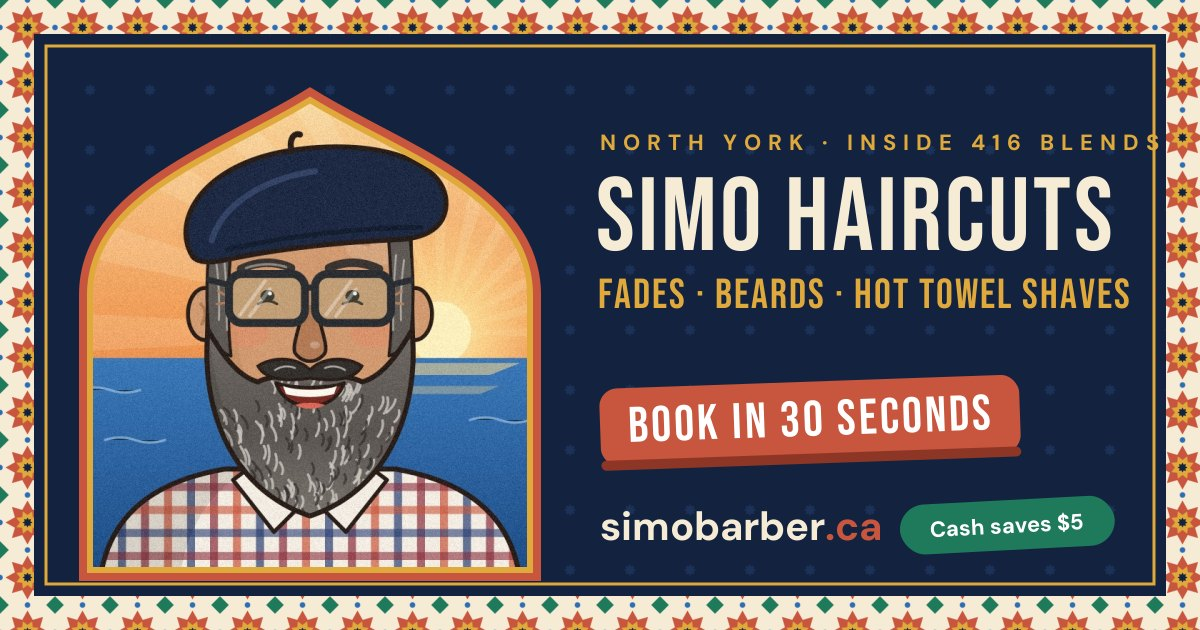
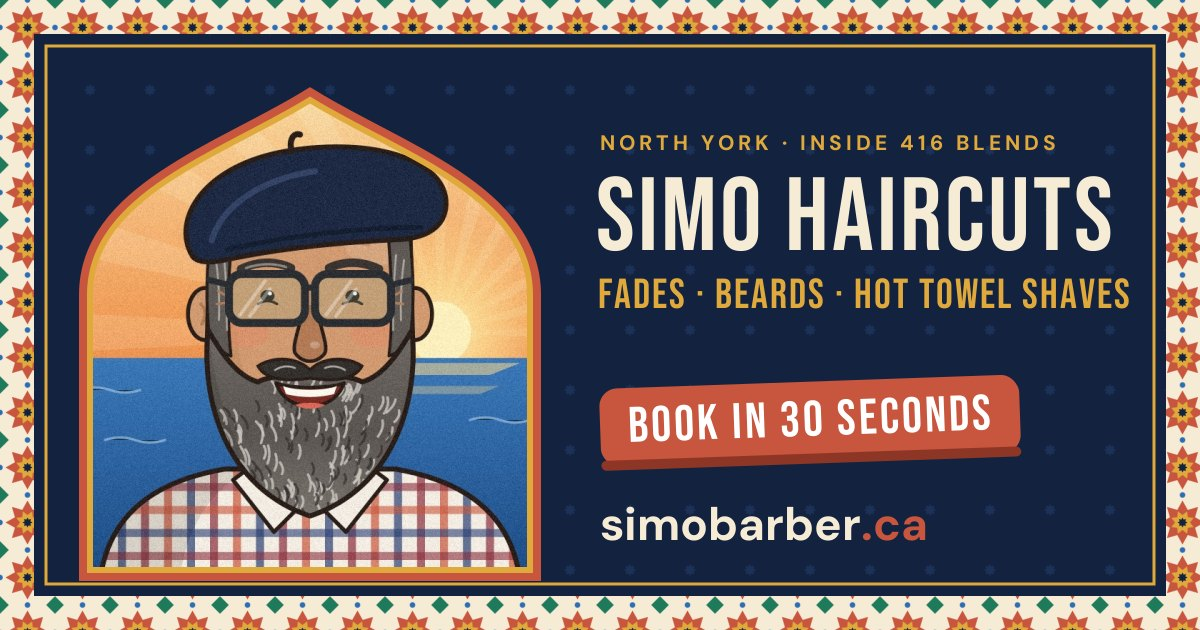
Tidy link-preview image
Claude-Session: https://claude.ai/code/session_01NQSfjRKTrDdcBnhyAtxXei

Changed region(s): [[0.4933, 0.7841, 0.9558, 0.9048], [0.4933, 0.2111, 0.9867, 0.2413]]

diff --git a/index.html b/index.html
@@ -7,7 +7,7 @@
 <meta name="description" content="Haircuts, fades, beards and hot towel shaves by Simo. Book your next cut online in 30 seconds.">
 <meta property="og:title" content="Simo Haircuts">
 <meta property="og:description" content="Fades, beards and hot towel shaves in North York. Book online in 30 seconds.">
-<meta property="og:image" content="https://simobarber.ca/img/og.jpg?v=2">
+<meta property="og:image" content="https://simobarber.ca/img/og.jpg?v=3">
 <meta property="og:image:width" content="1200">
 <meta property="og:image:height" content="630">
 <meta property="og:url" content="https://simobarber.ca/">

diff --git a/book/index.html b/book/index.html
@@ -6,7 +6,7 @@
 <title>Book with Simo</title>
 <meta property="og:title" content="Book with Simo · Simo Haircuts">
 <meta property="og:description" content="Pick your next time in 30 seconds.">
-<meta property="og:image" content="https://simobarber.ca/img/og.jpg?v=2">
+<meta property="og:image" content="https://simobarber.ca/img/og.jpg?v=3">
 <meta property="og:image:width" content="1200"><meta property="og:image:height" content="630">
 <meta name="twitter:card" content="summary_large_image">
 <meta http-equiv="refresh" content="0; url=https://app.squareup.com/appointments/book/gzj3aniqhc8bsw/LAVXAR868NXZP/start">
